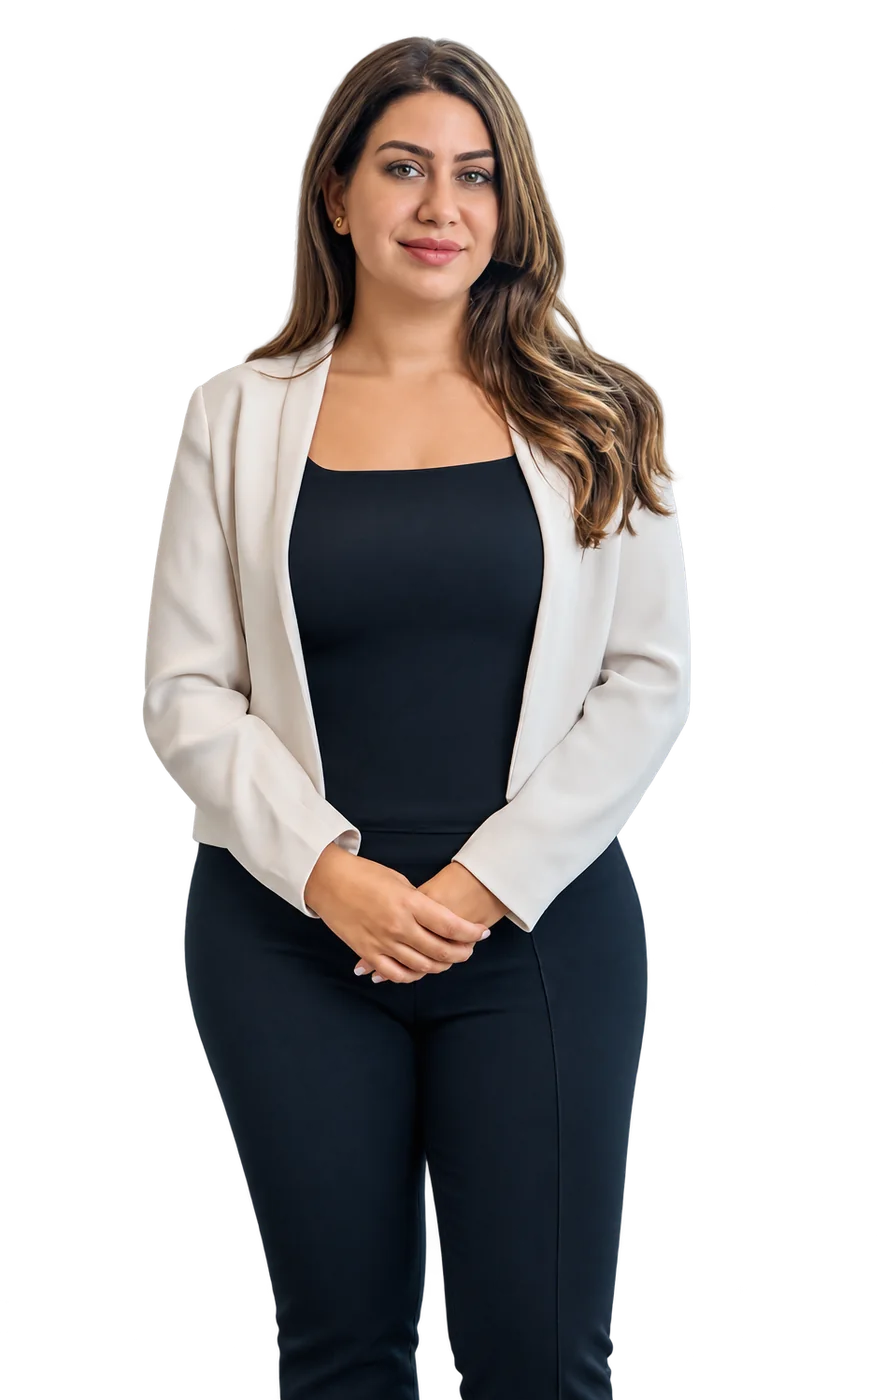
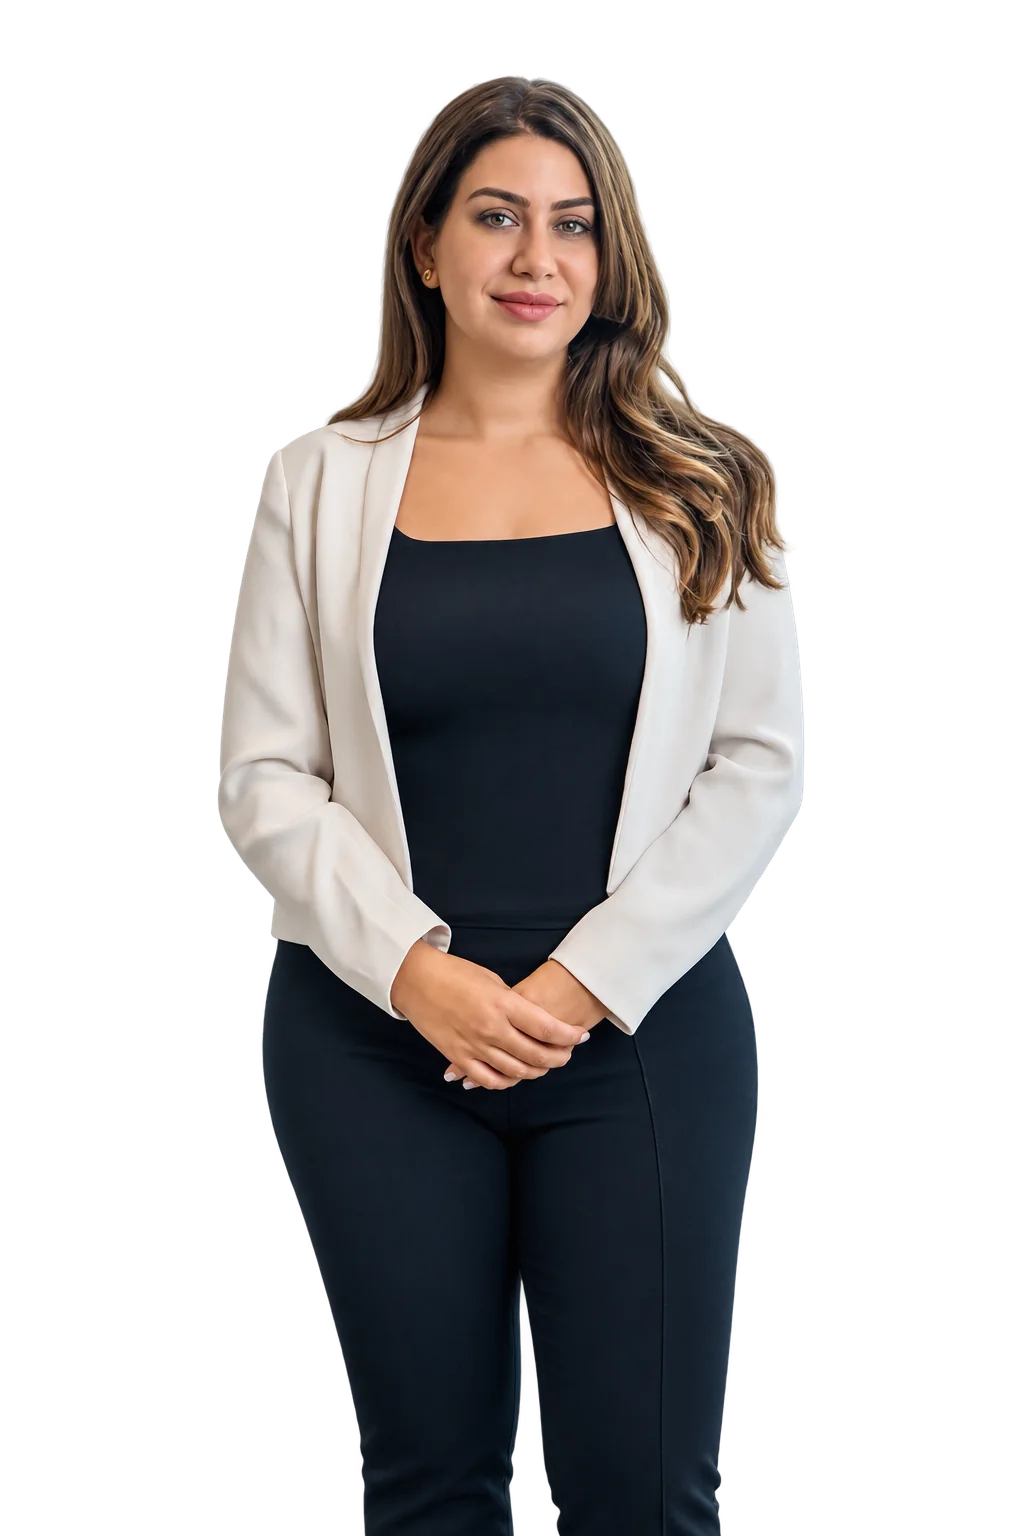
Keep What I Bring inside one screen
The tall plate was sized from the width of its column, so on a 1728
frame it came out 711px and the section ran past the bottom of the
window. Both plates and the end of the copy were cut off.

It is now sized by height instead: min(41.15vw, 52svh). The first term
is the design's own 711 on a 1728 frame, so nothing changes on a tall
window; the second takes over on a short one and the section still
lands in a single screen. The small plate is positioned off the large
one rather than off the column, so the pair keeps the design's overlap
at every size: 24.6 percent further left, 56.3 by 36.3 percent of it.

Measured at 1728x1040, 1440x820 and 1728x900: fits in all three.

Changed region(s): [[0.1529, 0.0, 0.795, 1.0], [0.4587, 0.7371, 0.5504, 1.0], [0.6421, 0.6757, 0.7644, 1.0]]

diff --git a/src/app/services/page.tsx b/src/app/services/page.tsx
@@ -71,38 +71,57 @@ export default function ServicesPage() {
       <BreadcrumbSchema items={[{ name: "Services", href: "/services" }]} />
 
       {/* ------------------------------------------------------------ hero
-          On the 1728 by 981 frame: Expertise centred at y196, With and Purpose
-          on the line below with 273px between them, the portrait rising into
-          that gap from the bottom edge where the section crops her, the lede at
-          65.5 percent across, the button at the lower left. Held as
-          percentages so the composition scales as one. */}
+          Placed from the frame, in the frame's own numbers. On 1728 by 981:
+
+            headline block   top 58              5.91%
+            With / Purpose   465..707, 980..1392, so 273px apart   15.8%
+            portrait         x218 y68, 1247 x 1870                 the section
+                                                                   crops it
+            lede             x1277 y693 w394     73.9% / 70.6% / 22.8%
+            button           x80 y877 327 x 64   4.6% / 89.4%
+
+          The portrait box is nearly twice the height of the section, which is
+          why only her head and shoulders show. Scaling her to fit, which is
+          what the first attempts did, makes her a third of the size.
+
+          It also sits above the headline in the design's own layer order, so
+          it does here. */}
       <section className="relative overflow-hidden bg-card">
         <div className="relative mx-auto w-full max-w-[1728px] lg:aspect-[1728/981]">
           <div className="hidden lg:block">
-            <h1 className="s-display absolute left-0 top-[16%] w-full text-center text-card-body">
-              <span className="block">{hero.lines[0]}</span>
-              <span className="mt-1 flex items-baseline justify-center gap-[15.8%]">
-                <span>{hero.lines[1]}</span>
-                <span>{hero.lines[2]}</span>
+            {/* Each word is pinned to its own x. Centring the pair and
+                spacing them apart looked right until it was measured: the
+                design's With and Purpose sit 64px right of the frame centre,
+                and any difference between the design's font metrics and ours
+                moved them again. Pinned, neither can drift. */}
+            <h1 className="s-display absolute inset-0 text-card-body">
+              <span className="absolute left-[35.76%] top-[5.91%]">
+                {hero.lines[0]}
+              </span>
+              <span className="absolute left-[26.91%] top-[16.62%]">
+                {hero.lines[1]}
+              </span>
+              <span className="absolute left-[56.71%] top-[16.62%]">
+                {hero.lines[2]}
               </span>
             </h1>
 
-            <div className="absolute bottom-0 left-[46.6%] h-[79%] w-[33%] -translate-x-1/2">
+            <div className="absolute left-[12.6%] top-[6.9%] h-[190.6%] w-[72.2%]">
               <Image
                 src="/brand/services-hero.webp"
                 alt="Joumana Saad, journalist, presenter and communications specialist in Dubai"
                 fill
                 priority
-                sizes="34vw"
-                className="object-contain object-bottom"
+                sizes="73vw"
+                className="object-contain object-top"
               />
             </div>
 
-            <p className="s-body absolute left-[65.5%] top-[72%] w-[23%] text-card-body">
+            <p className="s-body absolute left-[73.9%] top-[70.6%] w-[22.8%] text-card-body">
               {hero.lede}
             </p>
 
-            <div className="absolute bottom-[4.5%] left-[4.6%]">
+            <div className="absolute left-[4.6%] top-[89.4%]">
               <Pill label={hero.cta.label} href={hero.cta.href} tone="oxblood" />
             </div>
           </div>
@@ -117,14 +136,14 @@ export default function ServicesPage() {
               </span>
             </h1>
 
-            <div className="relative mt-2 h-[330px] w-[78%] max-w-[330px]">
+            <div className="relative -mt-2 h-[360px] w-full max-w-[420px] overflow-hidden">
               <Image
                 src="/brand/services-hero.webp"
                 alt=""
                 fill
                 priority
-                sizes="78vw"
-                className="object-contain object-bottom"
+                sizes="100vw"
+                className="object-cover object-top"
               />
             </div>
 
@@ -138,7 +157,7 @@ export default function ServicesPage() {
       </section>
 
       {/* ------------------------------------------------------- what I bring */}
-      <section className="bg-page py-14 xl:py-[6.2vw]">
+      <section className="bg-page py-12 xl:py-[3.4vw]">
         <div className="frame flex flex-col items-center">
           <Reveal>
             <p className="s-script text-center text-white">{bring.script}</p>
@@ -154,10 +173,17 @@ export default function ServicesPage() {
             </h2>
           </Reveal>
 
-          <div className="mt-12 grid w-full max-w-[1363px] items-end gap-10 lg:grid-cols-[644fr_639fr] xl:mt-[4vw] xl:gap-[5vw]">
-            {/* 517 by 711 with a 291 by 258 plate overlapping it from below */}
-            <Reveal className="relative">
-              <div className="relative ml-auto aspect-[517/711] w-[80.3%]">
+          <div className="mt-10 grid w-full max-w-[1363px] items-end gap-10 lg:grid-cols-[644fr_639fr] xl:mt-[3vw] xl:gap-[5vw]">
+            {/* 517 by 711, with the 291 by 258 plate overlapping it from below
+                and 127px further left.
+
+                The plate is sized by height rather than width so the section
+                can never grow taller than the screen. At the design's own
+                proportions it is 711 on a 1728 frame, which is 41.15vw; on a
+                short window the viewport cap takes over and the whole section
+                still lands in one screen. */}
+            <Reveal className="relative ml-auto w-fit">
+              <div className="relative aspect-[517/711] h-[min(41.15vw,52svh)]">
                 <Image
                   src="/brand/services-plate.webp"
                   alt=""
@@ -166,7 +192,7 @@ export default function ServicesPage() {
                   className="object-cover"
                 />
               </div>
-              <div className="absolute bottom-0 left-0 aspect-[291/258] w-[45.2%]">
+              <div className="absolute bottom-0 left-[-24.6%] h-[36.3%] w-[56.3%]">
                 <Image
                   src="/brand/services-columns.webp"
                   alt=""
